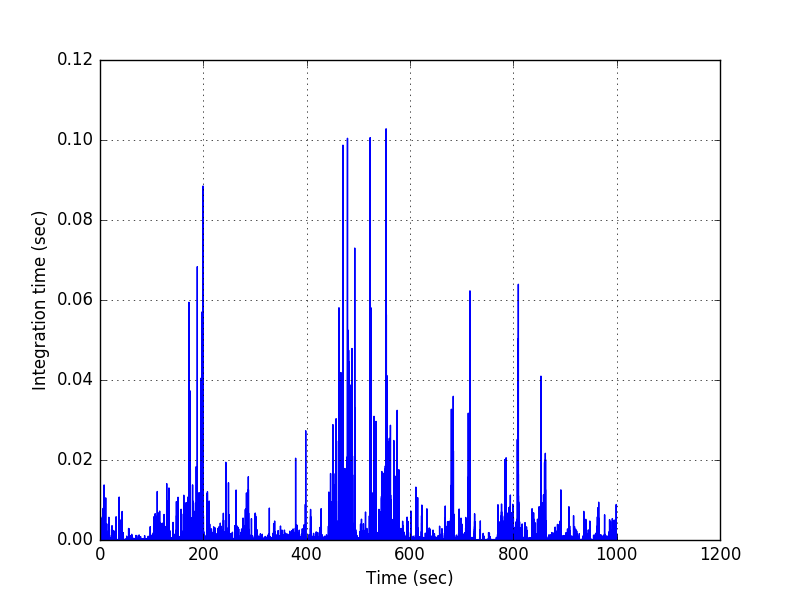
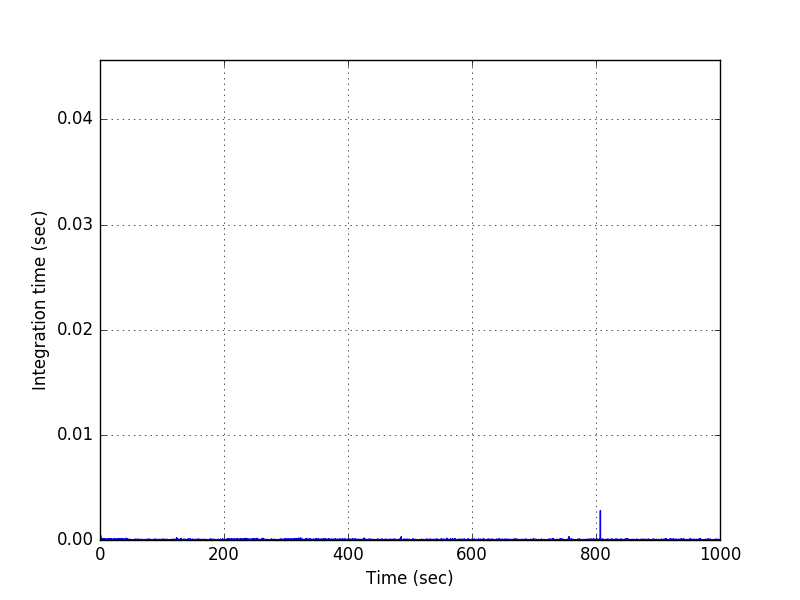
Rerand VDP and restructured the folder.

diff --git a/Stiffness_CO_H2_mac_6_22_17_validation.py b/Stiffness_CO_H2_mac_6_22_17_validation.py
@@ -7,7 +7,7 @@ Created on Fri Feb 17 14:54:13 2017
 """
 
 import matplotlib
-# matplotlib.use('Agg')
+matplotlib.use('Agg')
 import os as os
 import numpy as np
 import pyjacob as pyjacob
@@ -19,7 +19,7 @@ import time as timer
 # from scipy.integrate import odeint
 from scipy.integrate import ode
 
-# pyl.ioff()
+pyl.ioff()
 
 
 def firstderiv(time, state, press):
@@ -222,7 +222,7 @@ print('----------------------------------------------')
 print('Start time: {}'.format(starttime))
 
 savedata = 0
-savefigures = 0
+savefigures = 1
 figformat = 'png'
 
 # Define the range of the computation
@@ -232,8 +232,8 @@ tstop = 1000.
 tlist = np.arange(tstart, tstop + 0.5 * dt, dt)
 
 # ODE Solver parameters
-abserr = 1.0e-16
-relerr = 1.0e-12
+abserr = 1.0e-17
+relerr = 1.0e-15
 
 # Load the initial conditions from the PaSR files
 # pasrarrays = []
@@ -378,6 +378,7 @@ pyl.close('all')
 pyl.figure(0)
 pyl.xlabel('X Value')
 pyl.ylabel('Y Value')
+pyl.xlim(tstart, tstop)
 pyl.plot(tlist[: len(tempnums)], tempnums)
 pyl.grid(b=True, which='both')
 if savefigures == 1:
@@ -387,18 +388,19 @@ if savefigures == 1:
 pyl.figure(1)
 pyl.xlabel('Time (sec)')
 pyl.ylabel('Integration time (sec)')
-# pyl.ylim(0, 0.005)
+pyl.ylim(0, max(solutiontimes))
+pyl.xlim(tstart, tstop)
 pyl.plot(tlist[: len(tempnums)], solutiontimes)
 pyl.grid(b=True, which='both')
 if savefigures == 1:
     pyl.savefig('VDP_Integration_Times.' + figformat)
 
 # Plot the stiffness index vs. time
-# Plot the time per integration
 pyl.figure(2)
 pyl.xlabel('Time (sec)')
 pyl.ylabel('Stiffness Index')
 pyl.yscale('log')
+pyl.xlim(tstart, tstop)
 pyl.plot(tlist[: len(solution[:-3, 0])], indexvalues[:-3])
 pyl.grid(b=True, which='both')
 if savefigures == 1:
@@ -420,6 +422,7 @@ fig3 = pyl.figure(3)
 x = fig3.add_subplot(111)
 pyl.xlabel('X Value')
 pyl.ylabel('Y Value')
+pyl.xlim(tstart, tstop)
 pyl.ylim(-0.01, 0.01)
 pyl.plot(tlist, solutioncd, label='CD 2nd Deriv')
 pyl.plot(tlist, solution2, label='Analytical 2nd Deriv')

diff --git a/Stiffness_CO_H2_rogers_6_21_17_validation.py b/Stiffness_CO_H2_rogers_6_21_17_validation.py
@@ -330,6 +330,7 @@ pyl.close('all')
 pyl.figure(0)
 pyl.xlabel('Time (sec)')
 pyl.ylabel('Temperature (K)')
+pyl.xlim(tstart, tstop)
 pyl.plot(tlist[: len(tempnums)], tempnums)
 if savefigures == 1:
     pyl.savefig('Autoignition_Temperature' + str(dt) + '.' + figformat)
@@ -338,6 +339,7 @@ if savefigures == 1:
 pyl.figure(1)
 pyl.xlabel('Time (sec)')
 pyl.ylabel('Integration time (sec)')
+pyl.xlim(tstart, tstop)
 # pyl.ylim(0, 0.005)
 pyl.plot(tlist[: len(tempnums)], solutiontimes)
 if savefigures == 1:
@@ -349,6 +351,7 @@ pyl.figure(2)
 pyl.xlabel('Time (sec)')
 pyl.ylabel('Stiffness Index')
 pyl.yscale('log')
+pyl.xlim(tstart, tstop)
 pyl.plot(tlist[: len(solution[:-3, 0])], indexvalues[:-3])
 if savefigures == 1:
     pyl.savefig('Autoignition_Stiffness_Index' + str(dt) + '.' + figformat)
